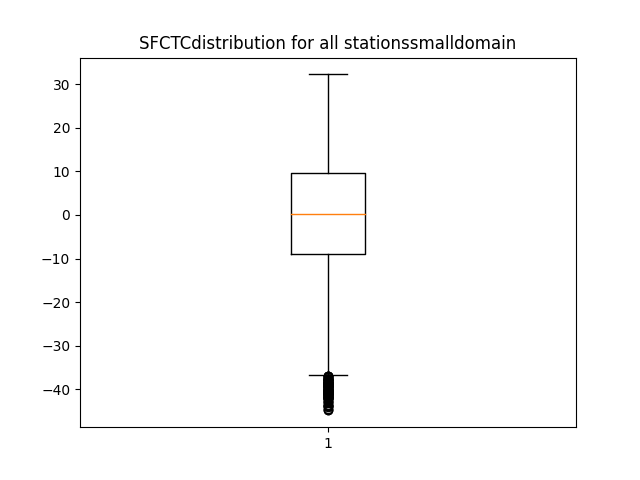
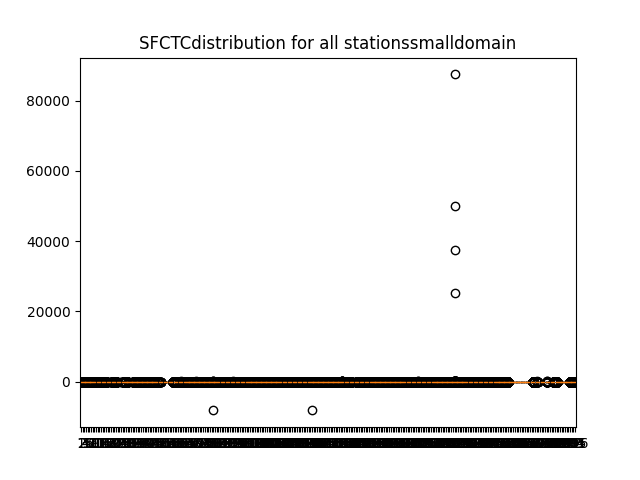
pushing img

diff --git a/qc/data_distribution.py b/qc/data_distribution.py
@@ -62,7 +62,7 @@ stations_with_PCPT24 = np.array(station_df.query("PCPT24==1")["Station ID"],dtyp
 today = date.today()
 start = date(2021, 10, 1)
 delta = today - start
-tot_hours = delta.hours
+tot_hours = delta.days * 24
 
 ###########################################################
 ### ---------------------- FUNCTIONS ----------------------
@@ -72,6 +72,7 @@ def get_station_data(variable):
     
     obs_all = []
     len_all = []
+    
     if variable == 'SFCTC':
         station_list = copy.deepcopy(stations_with_SFCTC)              
     elif variable == 'SFCWSPD':  
@@ -81,6 +82,9 @@ def get_station_data(variable):
         station_list = copy.deepcopy(stations_with_PCPTOT)  
     
     for station in station_list:
+        
+        if int(station) < 1000:
+            station = '0' + str(station)
 
         sql_path = obs_filepath + variable + '/' + station + '.sqlite'
         sql_con = sqlite3.connect(sql_path)
@@ -89,15 +93,19 @@ def get_station_data(variable):
         obs = pd.read_sql_query(sql_query, sql_con)
         len_data = len(obs)
     
-    obs_all.append(obs['Val'])
-    len_all.append(len_data)
+        obs_all.append(obs['Val'])
+        len_all.append(len_data)
     return(obs_all, station_list, len_all)
 
 def plot_station_data(obs_all, variable, station_list):
-    plot = plt.boxplot(obs_all)
-    plt.title(variable + "distribution for all stations" + domain + "domain")
-    plt.set_xticklables(station_list)
-    plt.show()
+    print(len(obs_all))
+
+    fig, ax = plt.subplots()
+    plot = ax.boxplot(obs_all)
+    ax.set(title = variable + "distribution for all stations" + domain + "domain")
+    print(station_list)
+    #ax.set_xticklabels(station_list)
+    plt.savefig('img/'+variable+'.png')
 
 def data_quantity(station_list, len_all):
     for x in len_all:
